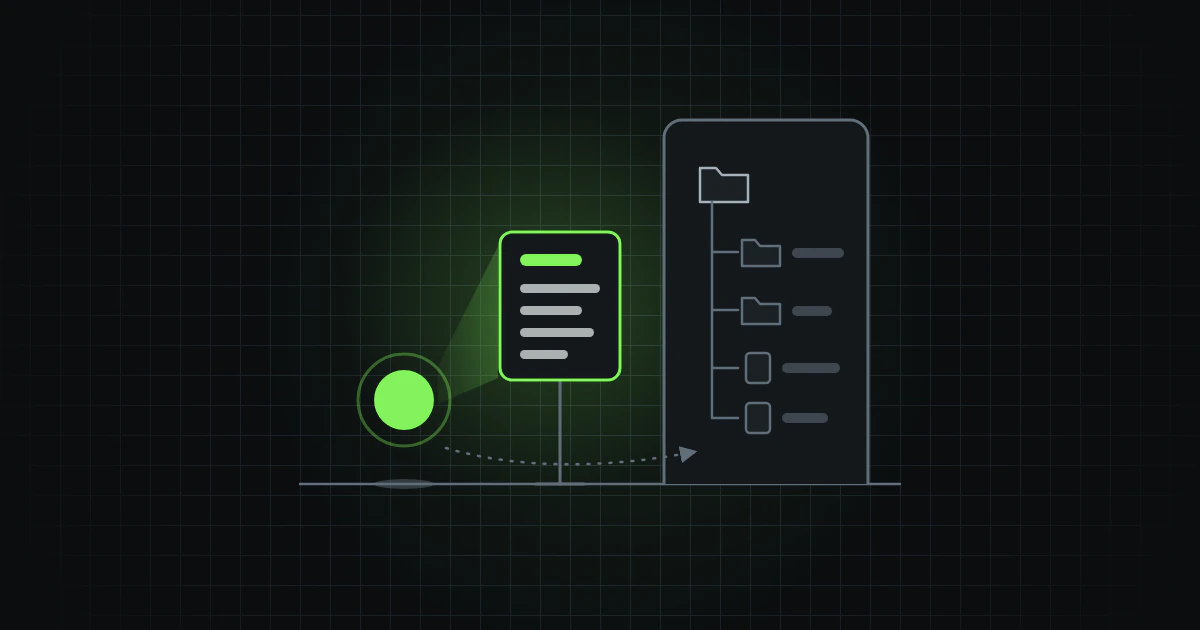
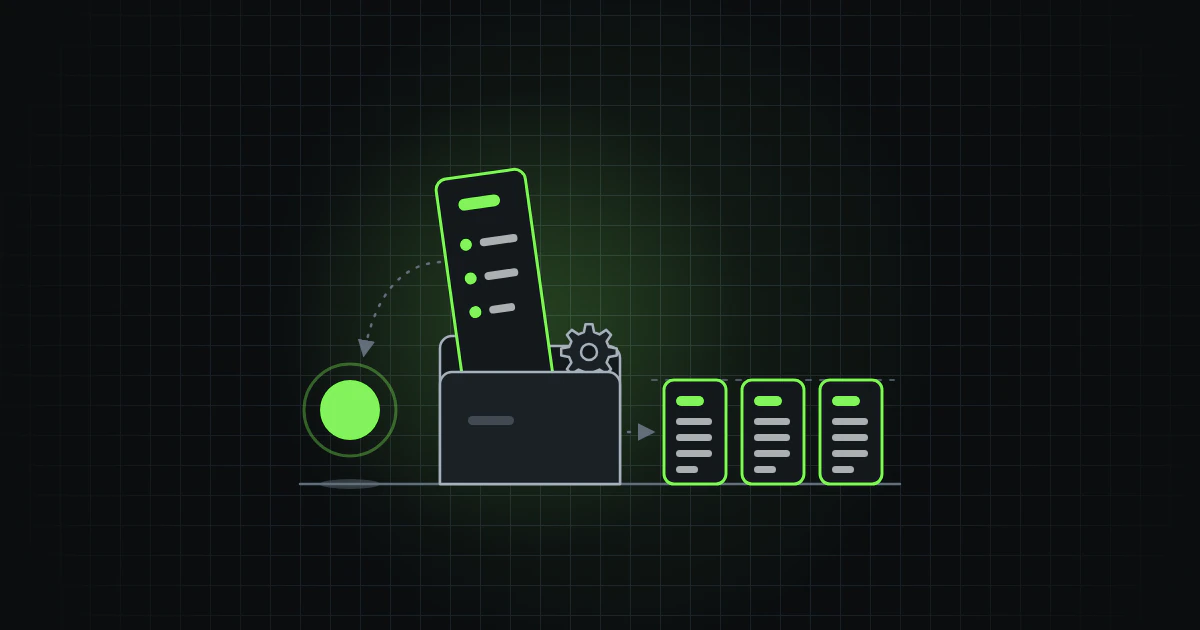
content(blog): part 4 of the series, "Skills, for work that must come out the same every time" / "Skills, när arbetet ska bli likadant varje gång", gets its own cover instead of part 2's: a simple folder holds one recipe card (a heading and three steps) and a small gear, the script; out of the folde

Changed region(s): [[0.2467, 0.181, 0.74, 0.7841]]

diff --git a/src/en/blog/posts/skills-for-repeatable-work.md b/src/en/blog/posts/skills-for-repeatable-work.md
@@ -2,7 +2,7 @@
 title: Skills, for work that must come out the same every time
 description: The fourth part of the series "From AI chat to agentic work" — how a job should be done so that it comes out the same way each time, what a skill is, why what must be exact belongs in a script, what the studies show and what to do first.
 image: cover.png                 # a 1200 × 630 PNG in the article's media directory
-imageAlt: An AI agent, a green circle, stands at the entrance of a project and reads a short note card on a post before it steps in. Behind the doorway lie the project's folders and files.
+imageAlt: An AI agent, a green circle, stands beside a folder and takes a recipe card from it. In the folder lie the card, with a heading and three steps, and a small gear. Out of the folder come three sheets in a row, all exactly the same.
 date: 2026-10-30
 category: ai-journey             # app-development | ai-journey
 translationKey: skills-for-repeatable-work

diff --git a/src/sv/blog/posts/skills-for-repeatable-work.md b/src/sv/blog/posts/skills-for-repeatable-work.md
@@ -2,7 +2,7 @@
 title: Skills, när arbetet ska bli likadant varje gång
 description: Fjärde delen i serien "Från AI-chatt till agentiskt arbete" – hur ett jobb ska göras för att bli likadant varje gång, vad en skill är, varför det som måste bli exakt hör hemma i ett skript, vad studierna visar och vad du gör först.
 image: cover.png                 # en PNG på 1200 × 630 i artikelns mediemapp
-imageAlt: En AI-agent, en grön cirkel, står vid ingången till ett projekt och läser en kort lapp på en stolpe innan den går in. Bakom dörröppningen ligger projektets mappar och filer.
+imageAlt: En AI-agent, en grön cirkel, står bredvid en mapp och tar ett receptkort ur den. I mappen ligger kortet, med en rubrik och tre steg, och ett litet kugghjul. Ur mappen kommer tre ark på rad, alla exakt likadana.
 date: 2026-10-30
 category: ai-journey             # app-development | ai-journey
 translationKey: skills-for-repeatable-work
